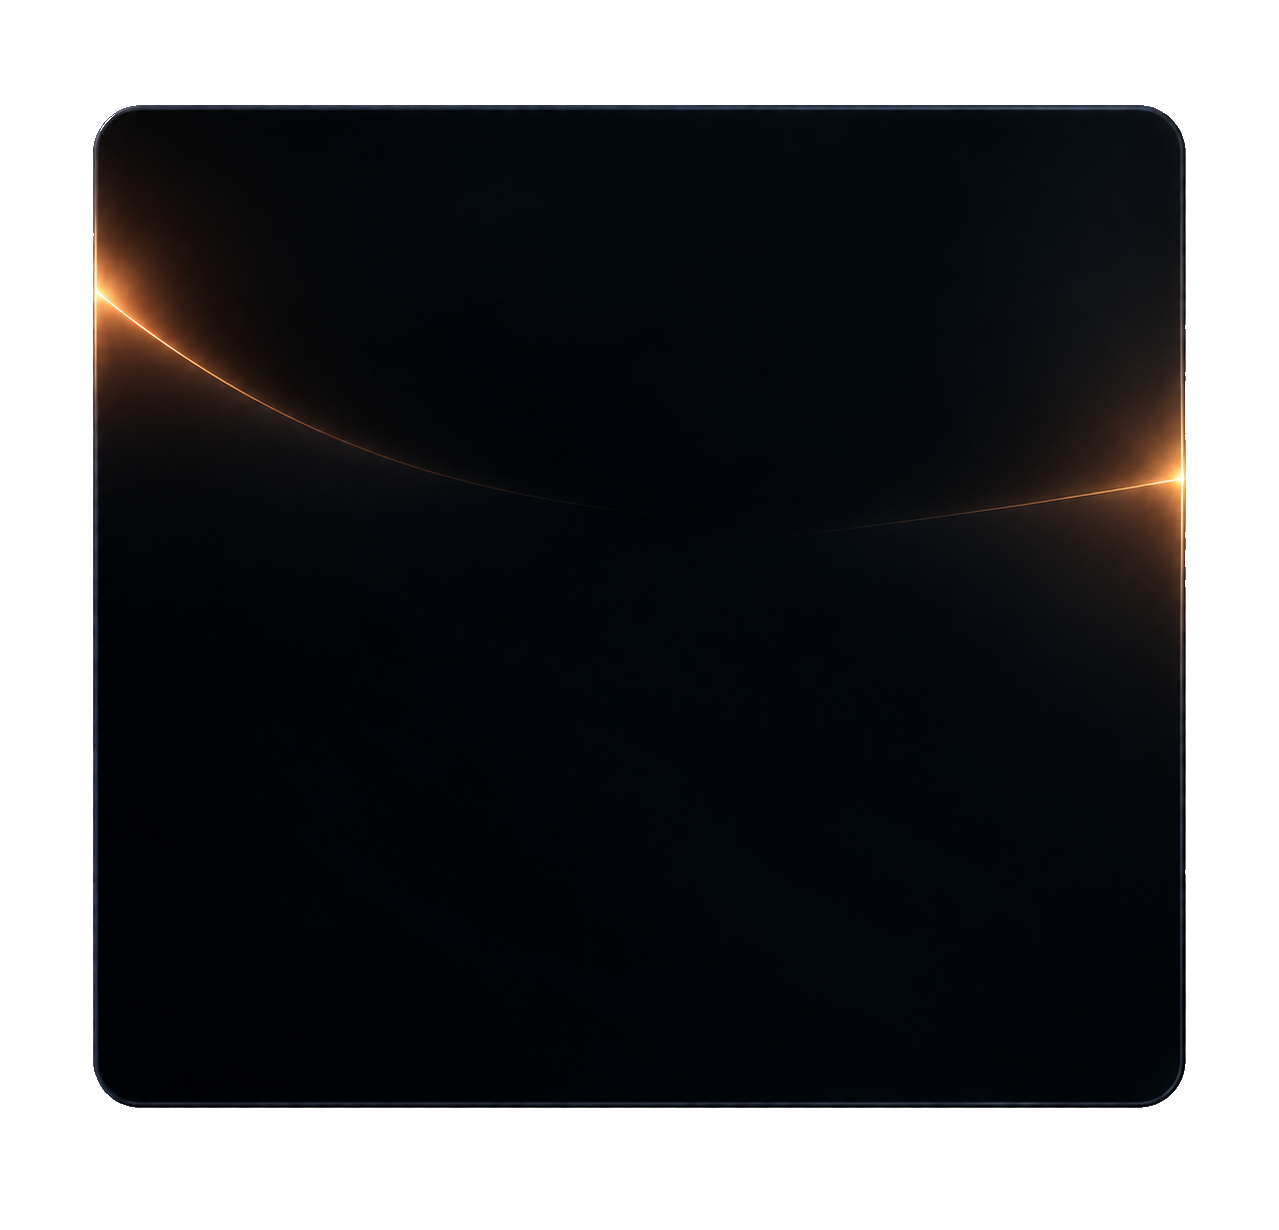
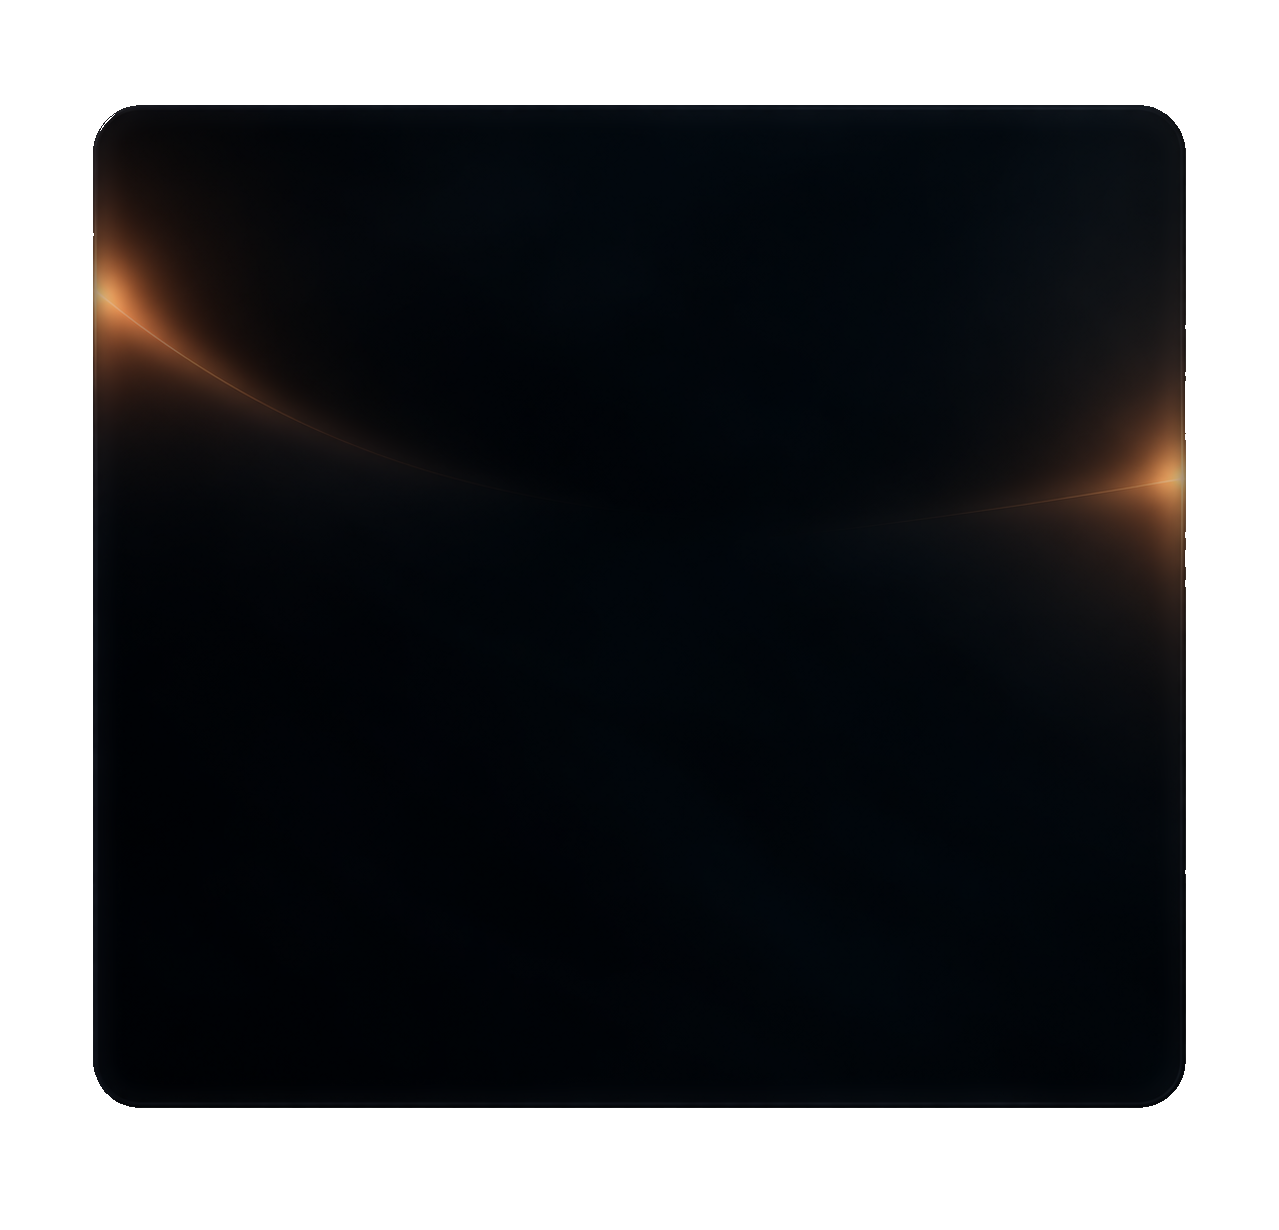
feat: substitui card antigo

diff --git a/css/projetos.css b/css/projetos.css
@@ -32,7 +32,7 @@
   display: flex;
   flex-direction: column;
   justify-content: center;
-  gap: 1.5rem;
+  gap: 1rem;
   padding: 2rem;
   flex: 0 0 100%;
   scroll-snap-align: start;
@@ -110,13 +110,13 @@
 .projeto-info {
   display: flex;
   flex-direction: column;
-  gap: 0.5rem;
+  gap: 0.4rem;
 }
 .projeto-info > span {
   font-size: 0.7rem;
 }
 .projeto-info h3 {
-  font-size: 1.4rem;
+  font-size: 1.3rem;
 }
 .projeto-info p {
   font-size: 0.8rem;
